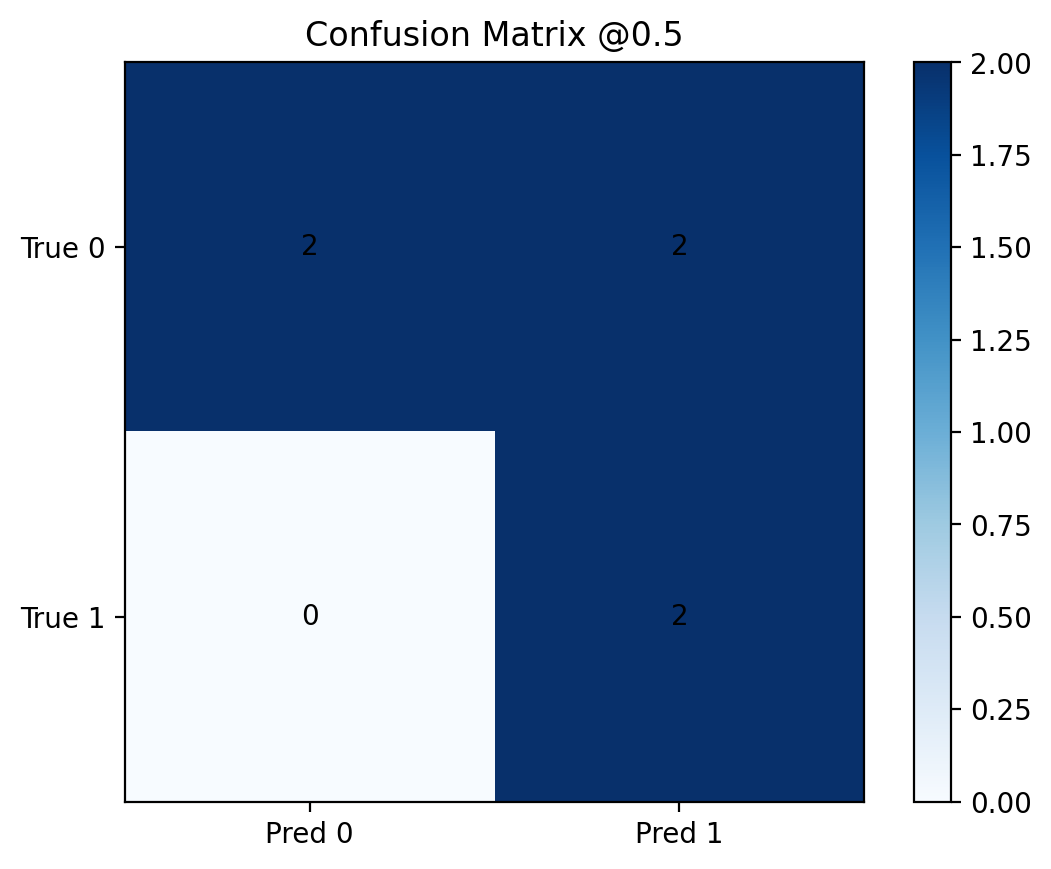
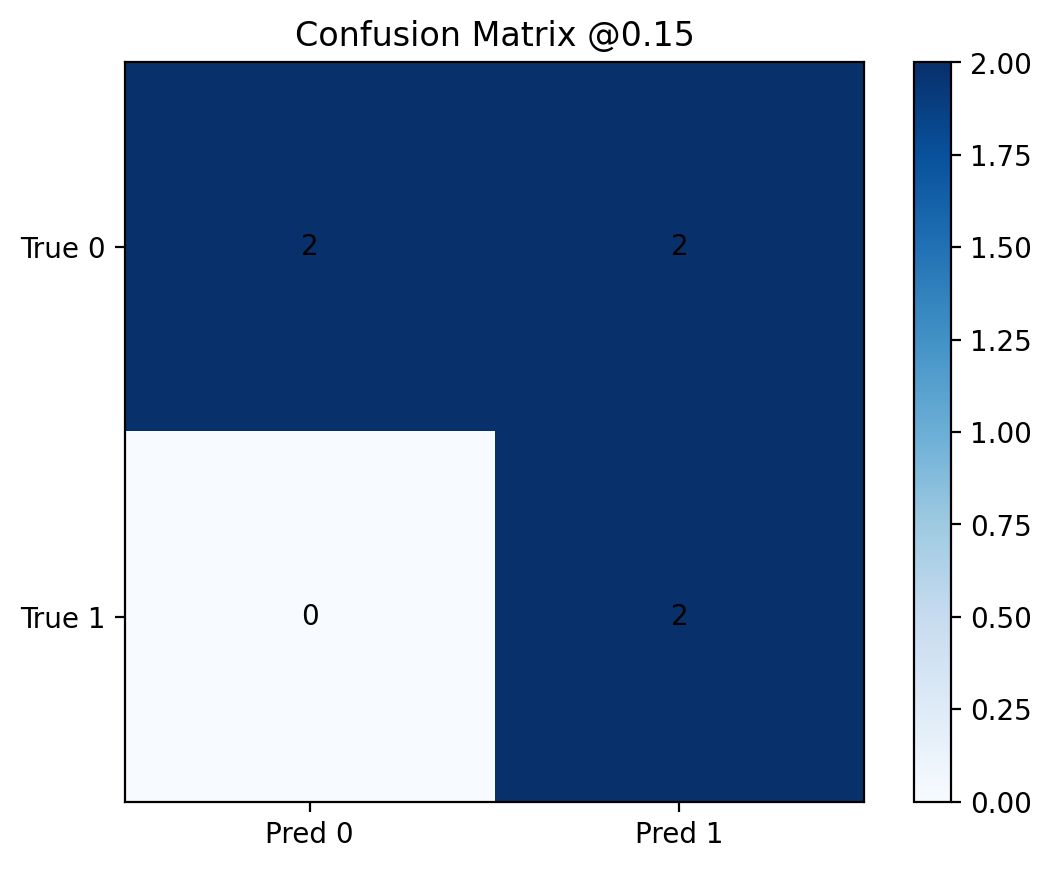
Docs: update confusion matrix title to 0.15

Changed region(s): [[0.274, 0.0, 0.6698, 0.0621]]

diff --git a/src/plotting.py b/src/plotting.py
@@ -46,7 +46,7 @@ def plot_confusion_matrix(tn, fp, fn, tp, out_png: str):
             plt.text(j, i, str(cm[i, j]), ha="center", va="center")
     plt.xticks([0, 1], ["Pred 0", "Pred 1"])
     plt.yticks([0, 1], ["True 0", "True 1"])
-    plt.title("Confusion Matrix @0.5")
+    plt.title("Confusion Matrix @0.15")
     plt.colorbar()
     plt.savefig(out_png, bbox_inches="tight", dpi=200)
     plt.close()
